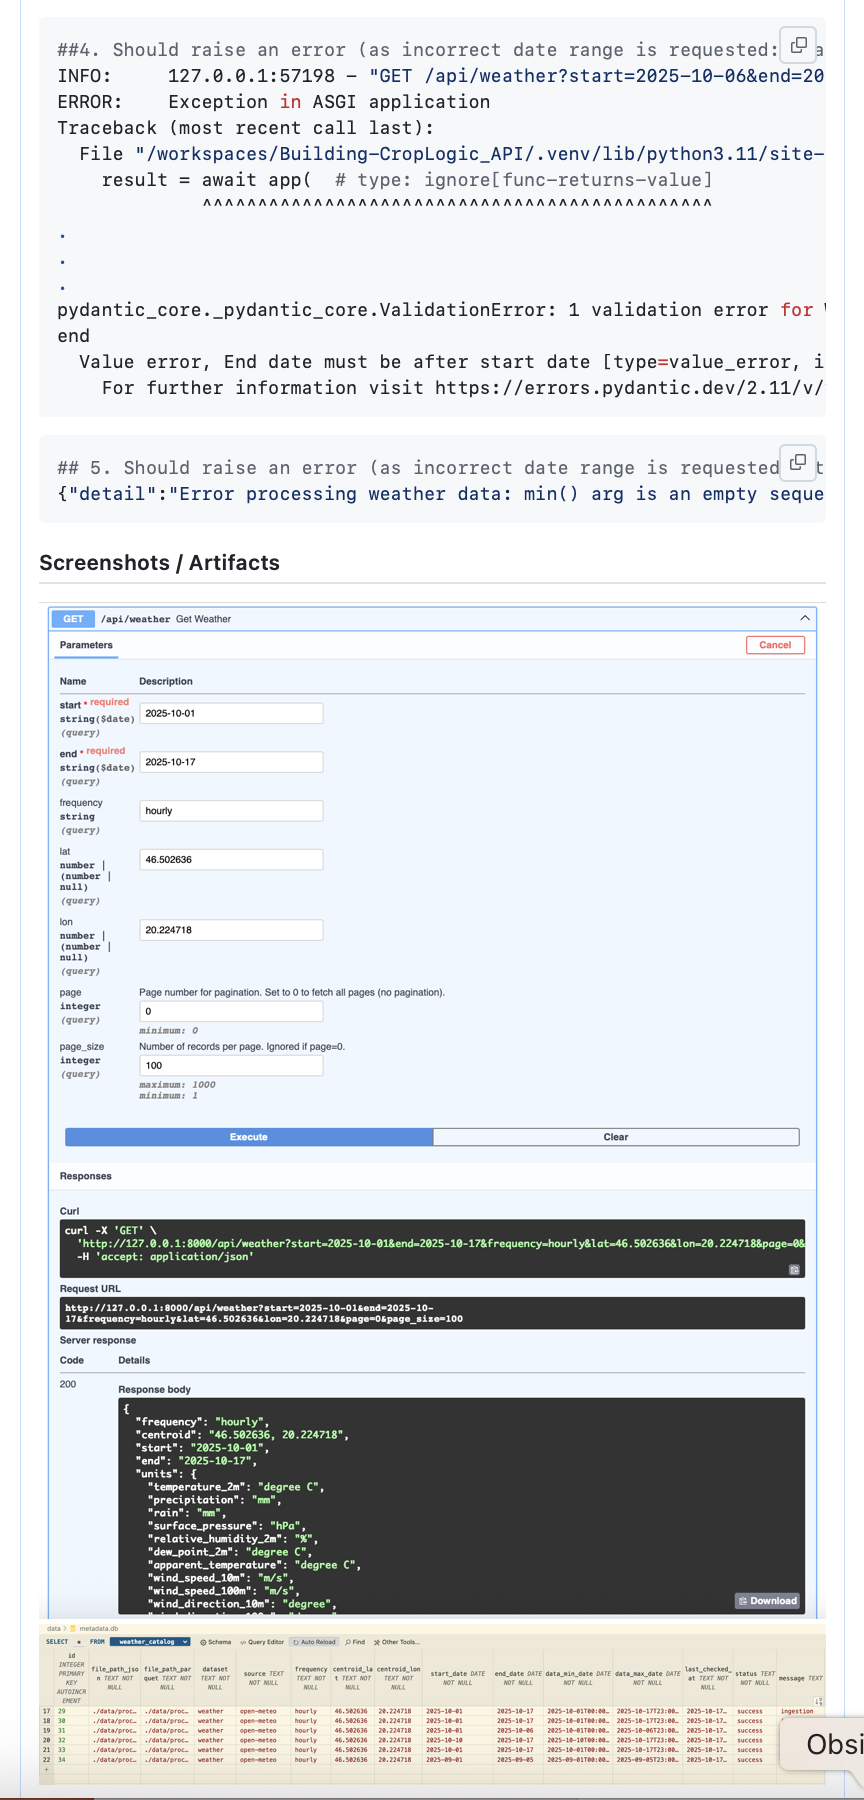
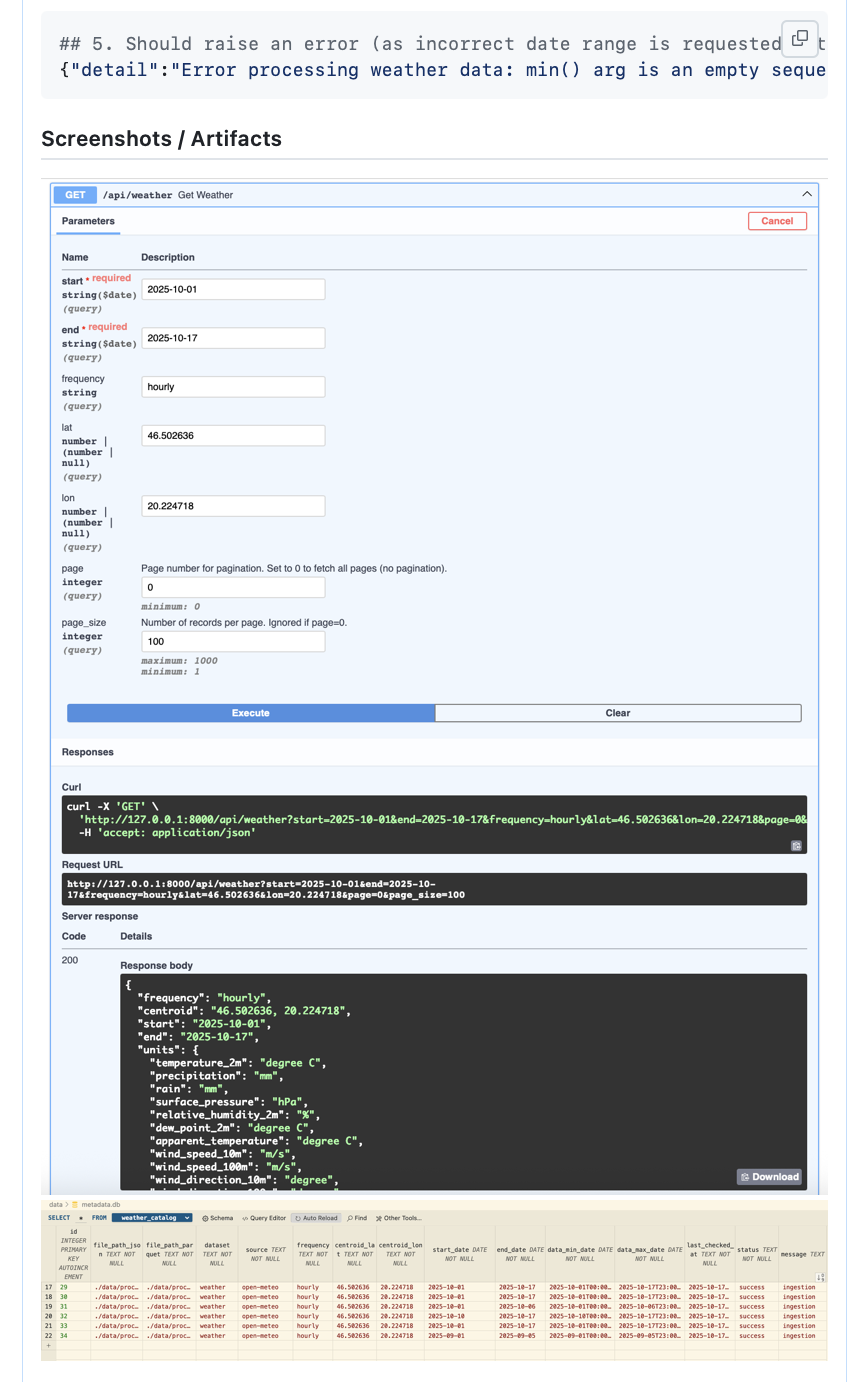
updated pr review section

Changed region(s): [[0.0, 0.0, 1.0, 1.0], [0.6089, 0.2489, 0.9742, 0.28], [0.7002, 0.4978, 0.7307, 0.5289]]

diff --git a/index.md b/index.md
@@ -88,7 +88,7 @@ Design and deploy production-ready ML pipelines that integrate model inference, 
 
 ## Leadership & Technical Strategy
 
-Beyond implementation, I help shape product and team direction — from scoping and trade-offs to alignment and iteration.
+Beyond implementation, I shape product and team direction — from scoping and trade-offs to keeping execution aligned.
 
 - Translate broad vision into actionable, time-bound deliverables
 - Facilitate alignment across ML, product, and data teams
@@ -97,26 +97,26 @@ Beyond implementation, I help shape product and team direction — from scoping 
 
 <div style="display: flex; flex-wrap: wrap; gap: 20px; justify-content: center; margin-top: 1em;">
 
-  <div style="display: flex; flex-wrap: wrap; gap: 20px; justify-content: center; margin-top: 1em;">
-    <div style="background: #fff; border-radius: 10px; box-shadow: 0 2px 5px rgba(0,0,0,0.1); width: 40%; text-align: center; padding: 1em;">
-      <h4 style="margin-top: 0.8em; color: #155799;">GitHub - Code Review</h4>
-      <img src="img/pr_review.png" alt="deployment-edge" style="width: 100%;  border-radius: 8px;">
-      <p style="font-size: 0.8em;">Example PR (Pull Request) review summary I provided</p>
-    </div>
+  <div style="background: #fff; border-radius: 10px; box-shadow: 0 2px 5px rgba(0,0,0,0.1); width: 40%; text-align: center; padding: 1em;">
+    <h4 style="margin-top: 0.8em; color: #155799;">GitHub - Code Review</h4>
+    <img src="img/pr_review.png" alt="deployment-edge" style="width:100%; border-radius:8px;">
+
+    <p style="font-size: 0.8em;">Example pull request review summary I provided</p>
   </div>
+
 
   <div style="background: #fff; border-radius: 10px; box-shadow: 0 2px 5px rgba(0,0,0,0.1); width: 40%; text-align: center; padding: 1em;">
     <div style="position: relative;">
-      <h4 style="margin-top: 0.8em; color: #155799;">GitHub - PR Sumitted</h4>
+      <h4 style="margin-top: 0.8em; color: #155799;">GitHub - PR Submitted</h4>
       <img id="pr-submitted" src="img/pr_submitted_1.png" style="width: 100%;border-radius: 8px;">
-      <button onclick="nextImage('pr-submitted', ['img/pr_submitted_1.png', 'img/pr_submitted_2.png', 'img/pr_submitted_3.png', 'img/pr_submitted_4.png', 'img/pr_submitted_5.png'])"
+      <button onclick="nextImage('pr-submitted', ['img/pr_submitted_1.png', 'img/pr_submitted_2.png', 'img/pr_submitted_3.png', 'img/pr_submitted_4.png'])"
               style="position: absolute; top: 0%; right: 10px; transform: translateY(-25%);
                     background: rgba(255,255,255,0.8); border: none; border-radius: 50%; padding: 6px 10px;
                     cursor: pointer; font-size: 1.2em;">
         →
       </button>
     </div>
-      <p style="font-size: 0.8em;">Example PR (Pull Request) I created</p>
+      <p style="font-size: 0.8em;">Example pull request I submitted</p>
   </div>
 </div>
 
@@ -231,6 +231,26 @@ You can reach me via [LinkedIn](https://www.linkedin.com/in/jaelin-lee-23678458/
     imageIndex[id] = (imageIndex[id] + 1) % images.length;
     document.getElementById(id).src = images[imageIndex[id]];
   }
+</script>
+
+<div id="lightbox" style="display:none; position:fixed; inset:0; background:rgba(0,0,0,0.8); justify-content:center; align-items:center; z-index:9999;">
+  <img id="lightbox-image" src="" alt="" style="max-width:90%; max-height:90%; border-radius:12px;">
+</div>
+
+<script>
+  const lightbox = document.getElementById('lightbox');
+  const lightboxImg = document.getElementById('lightbox-image');
+
+  function openLightbox(src, alt) {
+    lightboxImg.src = src;
+    lightboxImg.alt = alt || '';
+    lightbox.style.display = 'flex';
+  }
+
+  lightbox.addEventListener('click', () => {
+    lightbox.style.display = 'none';
+    lightboxImg.src = '';
+  });
 </script>
 
 ---
